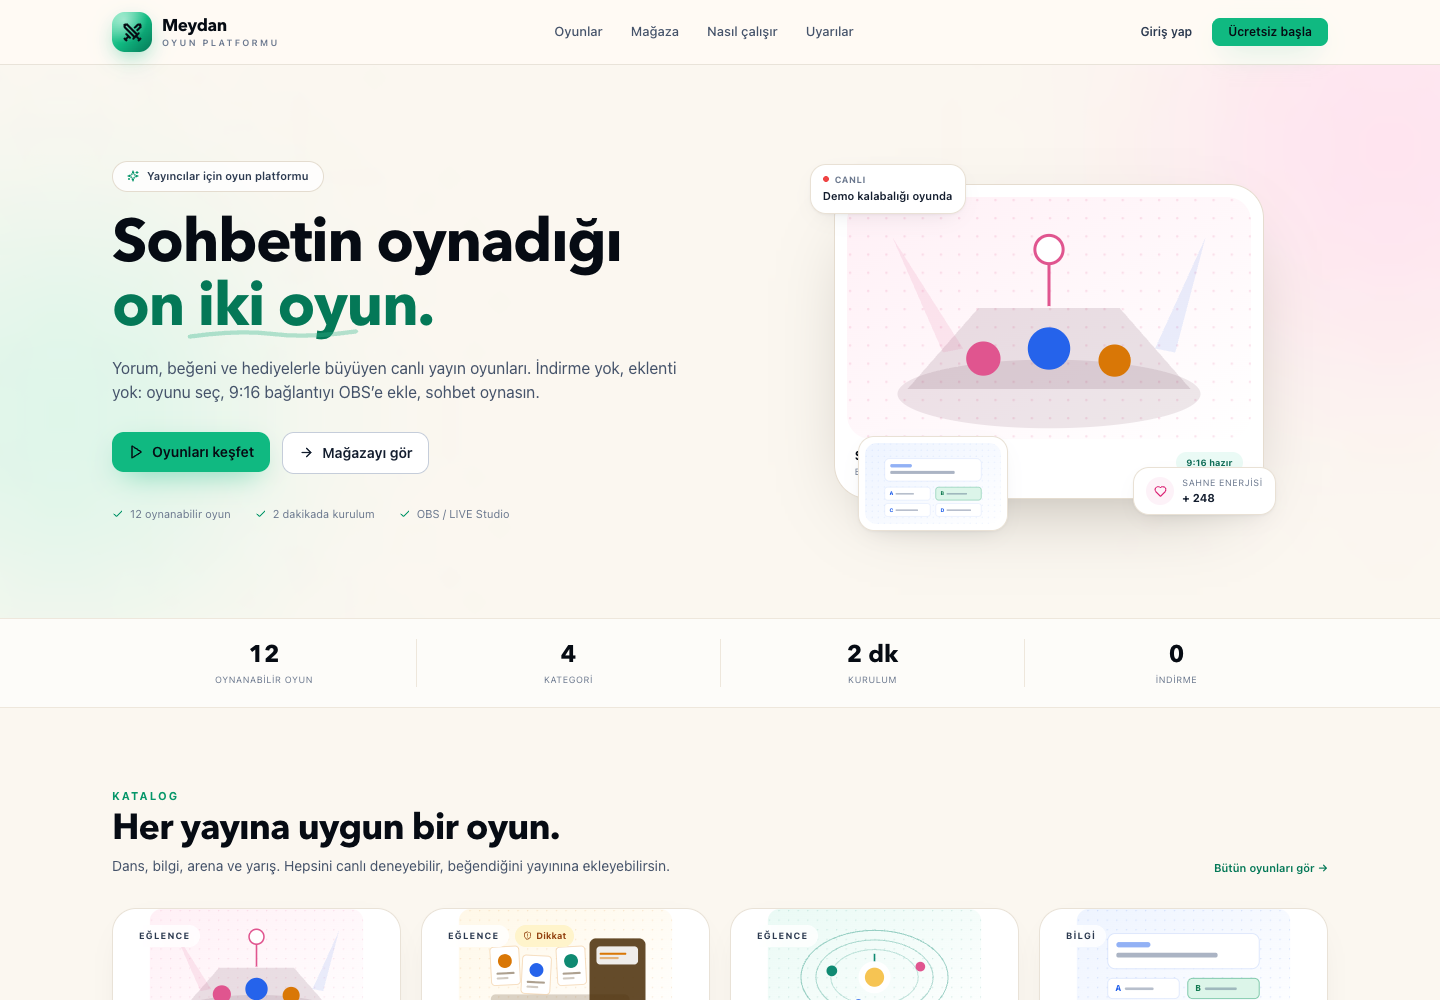
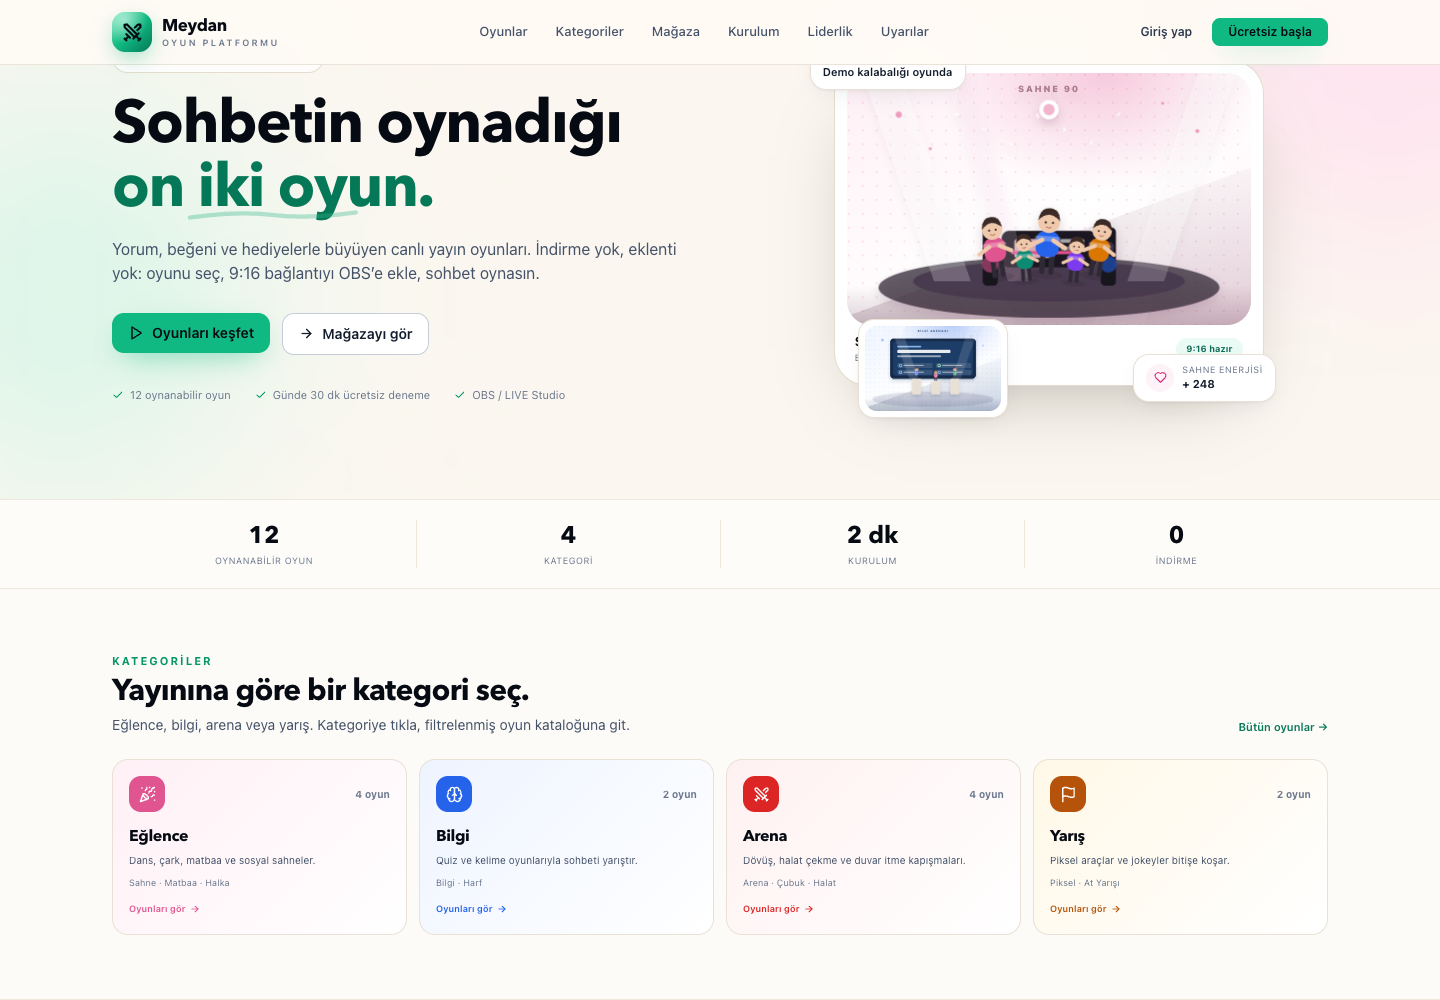
Ana sayfaya kategori bölümü ve filtreli kategori geçişleri ekle

diff --git a/web/src/pages/marketing/PlatformHomePage.tsx b/web/src/pages/marketing/PlatformHomePage.tsx
@@ -6,6 +6,10 @@ import {
   Heart,
   Layers,
   MessageCircle,
+  PartyPopper,
+  Swords,
+  Flag,
+  Brain,
   Play,
   Radio,
   Rocket,
@@ -70,6 +74,37 @@ const FAQ = [
   {
     q: 'TikTok ile resmî bağlantınız var mı?',
     a: 'Hayır. Bağımsız bir hizmetiz; TikTok, YouTube veya Twitch tarafından onaylanmış ya da sponsorlu değiliz.',
+  },
+];
+
+const CATEGORIES = [
+  {
+    name: 'Eğlence',
+    icon: PartyPopper,
+    color: '#e0558f',
+    soft: '#fff0f6',
+    text: 'Dans, çark, matbaa ve sosyal sahneler.',
+  },
+  {
+    name: 'Bilgi',
+    icon: Brain,
+    color: '#2563eb',
+    soft: '#eef4ff',
+    text: 'Quiz ve kelime oyunlarıyla sohbeti yarıştır.',
+  },
+  {
+    name: 'Arena',
+    icon: Swords,
+    color: '#dc2626',
+    soft: '#fff1f1',
+    text: 'Dövüş, halat çekme ve duvar itme kapışmaları.',
+  },
+  {
+    name: 'Yarış',
+    icon: Flag,
+    color: '#b45309',
+    soft: '#fff8e7',
+    text: 'Piksel araçlar ve jokeyler bitişe koşar.',
   },
 ];
 
@@ -172,6 +207,57 @@ export function PlatformHomePage() {
               <p className="mt-0.5 text-[9px] uppercase tracking-wider text-ink-400">{stat.label}</p>
             </div>
           ))}
+        </div>
+      </section>
+
+      <section id="kategoriler" className="scroll-mt-20 border-b border-[#eee7dc] bg-white/50 py-12 sm:py-16">
+        <div className="container-page">
+          <div className="flex flex-wrap items-end justify-between gap-3">
+            <div>
+              <p className="text-[11px] font-bold uppercase tracking-[0.18em] text-brand-600">Kategoriler</p>
+              <h2 className="mt-1 text-2xl font-bold tracking-tight text-ink-950 sm:text-3xl">
+                Yayınına göre bir kategori seç.
+              </h2>
+              <p className="mt-1.5 max-w-xl text-sm text-ink-500">
+                Eğlence, bilgi, arena veya yarış. Kategoriye tıkla, filtrelenmiş oyun kataloğuna git.
+              </p>
+            </div>
+            <Link to="/oyunlar" className="text-[11px] font-semibold text-brand-700 hover:text-brand-600">
+              Bütün oyunlar →
+            </Link>
+          </div>
+          <div className="mt-6 grid gap-3 sm:grid-cols-2 lg:grid-cols-4">
+            {CATEGORIES.map((category) => {
+              const Icon = category.icon;
+              const games = ARCADE_GAME_LIST.filter((game) => game.category === category.name);
+              return (
+                <Link
+                  key={category.name}
+                  to={`/oyunlar?kategori=${encodeURIComponent(category.name)}`}
+                  className="group relative overflow-hidden rounded-2xl border border-[#e9e1d5] p-4 transition hover:-translate-y-0.5 hover:shadow-card"
+                  style={{ background: `linear-gradient(135deg, ${category.soft}, #ffffff)` }}
+                >
+                  <div className="flex items-center justify-between">
+                    <span
+                      className="grid h-9 w-9 place-items-center rounded-xl text-white"
+                      style={{ background: category.color }}
+                    >
+                      <Icon size={17} />
+                    </span>
+                    <span className="text-[10px] font-bold text-ink-400">{games.length} oyun</span>
+                  </div>
+                  <h3 className="mt-3 text-base font-bold text-ink-950">{category.name}</h3>
+                  <p className="mt-1 text-[10px] leading-relaxed text-ink-500">{category.text}</p>
+                  <p className="mt-2 truncate text-[9px] text-ink-400">
+                    {games.slice(0, 3).map((game) => game.shortName).join(' · ')}
+                  </p>
+                  <span className="mt-3 inline-flex items-center gap-1 text-[9px] font-semibold" style={{ color: category.color }}>
+                    Oyunları gör <ArrowRight size={10} className="transition group-hover:translate-x-0.5" />
+                  </span>
+                </Link>
+              );
+            })}
+          </div>
         </div>
       </section>
 

diff --git a/web/src/pages/marketing/GamesPage.tsx b/web/src/pages/marketing/GamesPage.tsx
@@ -1,5 +1,5 @@
 import { useEffect, useMemo, useState } from 'react';
-import { Link } from 'react-router-dom';
+import { Link, useSearchParams } from 'react-router-dom';
 import {
   ArrowRight,
   Check,
@@ -21,7 +21,11 @@ import { ArcadeGameCard } from '../../components/ArcadeGameCard';
 const FILTERS = ['Tümü', 'Eğlence', 'Bilgi', 'Arena', 'Yarış', 'Favoriler'];
 
 export function GamesPage() {
-  const [filter, setFilter] = useState('Tümü');
+  const [searchParams] = useSearchParams();
+  const initialCategory = searchParams.get('kategori') ?? '';
+  const [filter, setFilter] = useState(
+    FILTERS.includes(initialCategory) && initialCategory !== 'Favoriler' ? initialCategory : 'Tümü',
+  );
   const [query, setQuery] = useState('');
   const [offers, setOffers] = useState<PackageDTO[]>([]);
   const [favorites, setFavorites] = useState<string[]>(() => {

diff --git a/web/src/components/MarketingHeader.tsx b/web/src/components/MarketingHeader.tsx
@@ -7,6 +7,7 @@ import { Logo } from './Logo';
 
 const NAV = [
   { to: '/oyunlar', label: 'Oyunlar' },
+  { to: '/#kategoriler', label: 'Kategoriler' },
   { to: '/satin-al', label: 'Mağaza' },
   { to: '/kurulum', label: 'Kurulum' },
   { to: '/liderlik', label: 'Liderlik' },

diff --git a/README.md b/README.md
@@ -96,9 +96,9 @@ npm start            # web/dist varsa :8787 üzerinden uygulamayı servis eder
 | --- | --- |
 | ![Uygulama](docs/screenshots/app-install.png) | ![OBS overlay](docs/screenshots/room-obs.png) |
 
-| Bilgi Arenası soru editörü |
-| --- |
-| ![Soru editörü](docs/screenshots/quiz-editor.png) |
+| Bilgi Arenası soru editörü | Ana sayfa kategorileri |
+| --- | --- |
+| ![Soru editörü](docs/screenshots/quiz-editor.png) | ![Kategoriler](docs/screenshots/categories.png) |
 
 | Yayıncı paneli |
 | --- |
